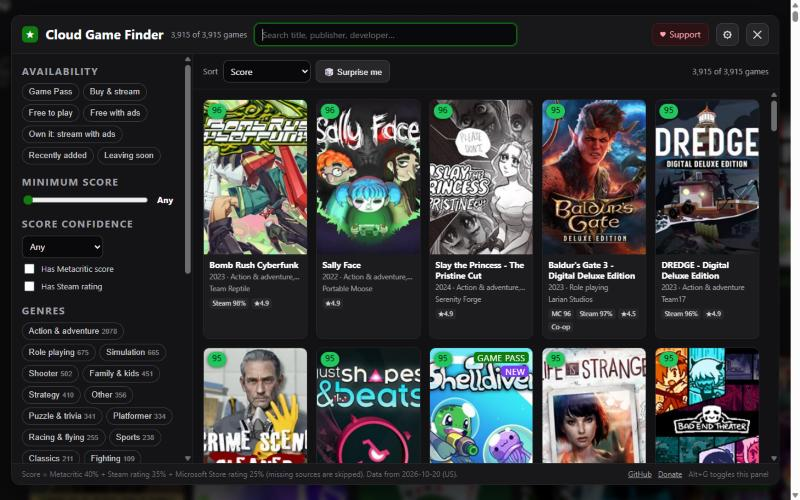
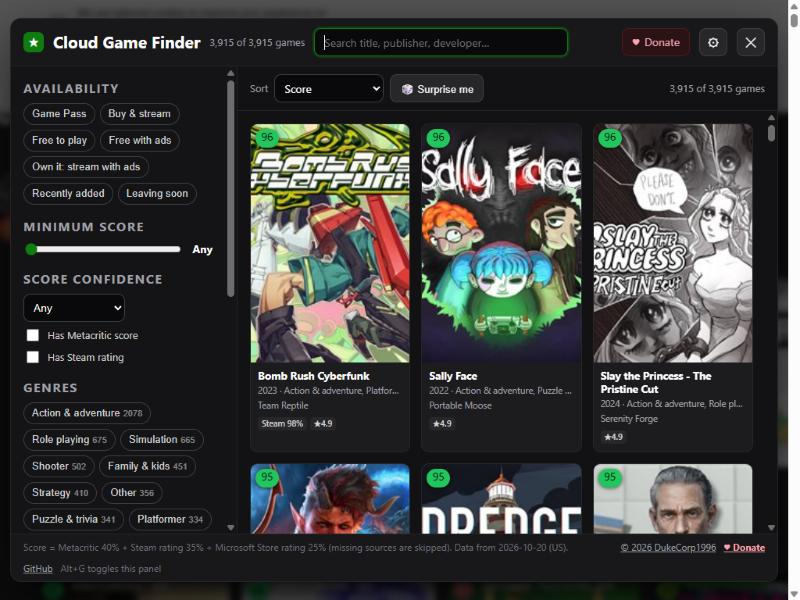
License PolyForm Noncommercial 1.0.0, DukeCorp1996 branding and donation links (v0.2)
- LICENSE.md: PolyForm Noncommercial 1.0.0 with the DukeCorp1996 Required
  Notice, same as PaTorrent; commercial use needs separate permission
- Userscript header: @author/@copyright/@license DukeCorp1996 and the
  Required Notice; package.json author, license, funding
- README: DukeCorp1996 tagline, Donate and License sections, trademark
  disclaimer
- Finder: '♥ Donate' header button, '© 2026 DukeCorp1996' + Donate footer
- Version bump to 0.2 so installed copies update

diff --git a/dist/xbox-cloud-scores.user.js b/dist/xbox-cloud-scores.user.js
@@ -1,9 +1,11 @@
 // ==UserScript==
 // @name         Xbox Cloud Gaming Scores & Finder
 // @namespace    https://github.com/Balls0fSteel/Useful-Xbox-Cloud-Online-JS
-// @version      0.1.20261020.2100
+// @version      0.2.20261020.2100
 // @description  Rating scores, genres and a filterable game finder for Xbox Cloud Gaming (xbox.com/play). Find the good games fast.
-// @author       Balls0fSteel
+// @author       DukeCorp1996 (https://dukecorp1996.x35.in/)
+// @copyright    2026, DukeCorp1996 (https://dukecorp1996.x35.in/)
+// @license      PolyForm-Noncommercial-1.0.0; https://polyformproject.org/licenses/noncommercial/1.0.0
 // @homepageURL  https://github.com/Balls0fSteel/Useful-Xbox-Cloud-Online-JS
 // @supportURL   https://github.com/Balls0fSteel/Useful-Xbox-Cloud-Online-JS/issues
 // @updateURL    https://raw.githubusercontent.com/Balls0fSteel/Useful-Xbox-Cloud-Online-JS/main/dist/xbox-cloud-scores.meta.js
@@ -21,9 +23,16 @@
 // @connect      catalog.gamepass.com
 // ==/UserScript==
 //
+// Required Notice: Copyright 2026 DukeCorp1996 (https://dukecorp1996.x35.in/)
+//
+// Free for noncommercial use under the PolyForm Noncommercial License 1.0.0
+// (https://polyformproject.org/licenses/noncommercial/1.0.0, full text in LICENSE.md in the repo).
+// Commercial use needs separate permission from DukeCorp1996.
+//
+// Like it? Please donate: https://dukecorp1996.x35.in/
+//
 // Data snapshot: 3915 games, built 2026-10-20T21:00:39.167Z for market US (store ratings 3760, Steam 2986, Metacritic 949)
 // Source, data pipeline and issues: https://github.com/Balls0fSteel/Useful-Xbox-Cloud-Online-JS
-// Like it? Support the author: https://dukecorp1996.x35.in/
 
 (function () {
   "use strict";
@@ -620,6 +629,7 @@ input[type=range]{flex:1;accent-color:#107c10}
 .t3{background:#eab308;color:#1a1300}.t4{background:#84cc16;color:#0d1402}.t5{background:#22c55e;color:#03140a}
 .ft{display:flex;align-items:center;gap:10px;padding:8px 16px;border-top:1px solid #27272a;background:#18181b;color:#71717a;font-size:12px;flex-wrap:wrap}
 .ft a{color:#a1a1aa}
+.ft a.don{color:#fda4af;font-weight:700}
 .ft .sp{flex:1}
 .settings{padding:4px 0}
 .filtbtn{display:none}
@@ -692,7 +702,7 @@ const panel = {
    <button class="btn filtbtn" data-act="filters">Filters</button>
    <input class="q" type="search" placeholder="Search title, publisher, developer…" value="${esc(s.q)}" aria-label="Search games">
    <span class="sp"></span>
-   <a class="btn heart" href="${DONATE_URL}" target="_blank" rel="noopener" title="Support the author">♥<span class="lbl"> Support</span></a>
+   <a class="btn heart" href="${DONATE_URL}" target="_blank" rel="noopener" title="Donate to DukeCorp1996, the author of this script">♥<span class="lbl"> Donate</span></a>
    <button class="btn icon" data-act="settings" title="Settings" aria-label="Settings">⚙</button>
    <button class="btn icon" data-act="close" title="Close (Esc)" aria-label="Close">✕</button>
   </div>
@@ -729,8 +739,9 @@ const panel = {
   <div class="ft">
    <span class="note">Score = Metacritic 40% + Steam rating 35% + Microsoft Store rating 25% (missing sources are skipped). Data from ${esc(RAW.builtAt.slice(0, 10))} (${esc(RAW.market)}).</span>
    <span class="sp"></span>
+   <a href="${DONATE_URL}" target="_blank" rel="noopener">© 2026 DukeCorp1996</a>
+   <a class="don" href="${DONATE_URL}" target="_blank" rel="noopener">♥ Donate</a>
    <a href="${REPO_URL}" target="_blank" rel="noopener">GitHub</a>
-   <a href="${DONATE_URL}" target="_blank" rel="noopener">Donate</a>
    <span>Alt+G toggles this panel</span>
   </div>
  </div>

diff --git a/src/userscript.js b/src/userscript.js
@@ -526,6 +526,7 @@ input[type=range]{flex:1;accent-color:#107c10}
 .t3{background:#eab308;color:#1a1300}.t4{background:#84cc16;color:#0d1402}.t5{background:#22c55e;color:#03140a}
 .ft{display:flex;align-items:center;gap:10px;padding:8px 16px;border-top:1px solid #27272a;background:#18181b;color:#71717a;font-size:12px;flex-wrap:wrap}
 .ft a{color:#a1a1aa}
+.ft a.don{color:#fda4af;font-weight:700}
 .ft .sp{flex:1}
 .settings{padding:4px 0}
 .filtbtn{display:none}
@@ -598,7 +599,7 @@ const panel = {
    <button class="btn filtbtn" data-act="filters">Filters</button>
    <input class="q" type="search" placeholder="Search title, publisher, developer…" value="${esc(s.q)}" aria-label="Search games">
    <span class="sp"></span>
-   <a class="btn heart" href="${DONATE_URL}" target="_blank" rel="noopener" title="Support the author">♥<span class="lbl"> Support</span></a>
+   <a class="btn heart" href="${DONATE_URL}" target="_blank" rel="noopener" title="Donate to DukeCorp1996, the author of this script">♥<span class="lbl"> Donate</span></a>
    <button class="btn icon" data-act="settings" title="Settings" aria-label="Settings">⚙</button>
    <button class="btn icon" data-act="close" title="Close (Esc)" aria-label="Close">✕</button>
   </div>
@@ -635,8 +636,9 @@ const panel = {
   <div class="ft">
    <span class="note">Score = Metacritic 40% + Steam rating 35% + Microsoft Store rating 25% (missing sources are skipped). Data from ${esc(RAW.builtAt.slice(0, 10))} (${esc(RAW.market)}).</span>
    <span class="sp"></span>
+   <a href="${DONATE_URL}" target="_blank" rel="noopener">© 2026 DukeCorp1996</a>
+   <a class="don" href="${DONATE_URL}" target="_blank" rel="noopener">♥ Donate</a>
    <a href="${REPO_URL}" target="_blank" rel="noopener">GitHub</a>
-   <a href="${DONATE_URL}" target="_blank" rel="noopener">Donate</a>
    <span>Alt+G toggles this panel</span>
   </div>
  </div>

diff --git a/src/header.js b/src/header.js
@@ -3,7 +3,9 @@
 // @namespace    https://github.com/Balls0fSteel/Useful-Xbox-Cloud-Online-JS
 // @version      {{VERSION}}
 // @description  Rating scores, genres and a filterable game finder for Xbox Cloud Gaming (xbox.com/play). Find the good games fast.
-// @author       Balls0fSteel
+// @author       DukeCorp1996 (https://dukecorp1996.x35.in/)
+// @copyright    2026, DukeCorp1996 (https://dukecorp1996.x35.in/)
+// @license      PolyForm-Noncommercial-1.0.0; https://polyformproject.org/licenses/noncommercial/1.0.0
 // @homepageURL  https://github.com/Balls0fSteel/Useful-Xbox-Cloud-Online-JS
 // @supportURL   https://github.com/Balls0fSteel/Useful-Xbox-Cloud-Online-JS/issues
 // @updateURL    https://raw.githubusercontent.com/Balls0fSteel/Useful-Xbox-Cloud-Online-JS/main/dist/xbox-cloud-scores.meta.js
@@ -21,6 +23,13 @@
 // @connect      catalog.gamepass.com
 // ==/UserScript==
 //
+// Required Notice: Copyright 2026 DukeCorp1996 (https://dukecorp1996.x35.in/)
+//
+// Free for noncommercial use under the PolyForm Noncommercial License 1.0.0
+// (https://polyformproject.org/licenses/noncommercial/1.0.0, full text in LICENSE.md in the repo).
+// Commercial use needs separate permission from DukeCorp1996.
+//
+// Like it? Please donate: https://dukecorp1996.x35.in/
+//
 // Data snapshot: {{DATA_INFO}}
 // Source, data pipeline and issues: https://github.com/Balls0fSteel/Useful-Xbox-Cloud-Online-JS
-// Like it? Support the author: https://dukecorp1996.x35.in/

diff --git a/dist/xbox-cloud-scores.meta.js b/dist/xbox-cloud-scores.meta.js
@@ -1,9 +1,11 @@
 // ==UserScript==
 // @name         Xbox Cloud Gaming Scores & Finder
 // @namespace    https://github.com/Balls0fSteel/Useful-Xbox-Cloud-Online-JS
-// @version      0.1.20261020.2100
+// @version      0.2.20261020.2100
 // @description  Rating scores, genres and a filterable game finder for Xbox Cloud Gaming (xbox.com/play). Find the good games fast.
-// @author       Balls0fSteel
+// @author       DukeCorp1996 (https://dukecorp1996.x35.in/)
+// @copyright    2026, DukeCorp1996 (https://dukecorp1996.x35.in/)
+// @license      PolyForm-Noncommercial-1.0.0; https://polyformproject.org/licenses/noncommercial/1.0.0
 // @homepageURL  https://github.com/Balls0fSteel/Useful-Xbox-Cloud-Online-JS
 // @supportURL   https://github.com/Balls0fSteel/Useful-Xbox-Cloud-Online-JS/issues
 // @updateURL    https://raw.githubusercontent.com/Balls0fSteel/Useful-Xbox-Cloud-Online-JS/main/dist/xbox-cloud-scores.meta.js

diff --git a/LICENSE.md b/LICENSE.md
@@ -1,0 +1,75 @@
+Required Notice: Copyright 2026 DukeCorp1996 (https://dukecorp1996.x35.in/)
+
+# PolyForm Noncommercial License 1.0.0
+
+<https://polyformproject.org/licenses/noncommercial/1.0.0>
+
+## Acceptance
+
+In order to get any license under these terms, you must agree to them as both strict obligations and conditions to all your licenses.
+
+## Copyright License
+
+The licensor grants you a copyright license for the software to do everything you might do with the software that would otherwise infringe the licensor's copyright in it for any permitted purpose.  However, you may only distribute the software according to [Distribution License](#distribution-license) and make changes or new works based on the software according to [Changes and New Works License](#changes-and-new-works-license).
+
+## Distribution License
+
+The licensor grants you an additional copyright license to distribute copies of the software.  Your license to distribute covers distributing the software with changes and new works permitted by [Changes and New Works License](#changes-and-new-works-license).
+
+## Notices
+
+You must ensure that anyone who gets a copy of any part of the software from you also gets a copy of these terms or the URL for them above, as well as copies of any plain-text lines beginning with `Required Notice:` that the licensor provided with the software.  For example:
+
+> Required Notice: Copyright Yoyodyne, Inc. (http://example.com)
+
+## Changes and New Works License
+
+The licensor grants you an additional copyright license to make changes and new works based on the software for any permitted purpose.
+
+## Patent License
+
+The licensor grants you a patent license for the software that covers patent claims the licensor can license, or becomes able to license, that you would infringe by using the software.
+
+## Noncommercial Purposes
+
+Any noncommercial purpose is a permitted purpose.
+
+## Personal Uses
+
+Personal use for research, experiment, and testing for the benefit of public knowledge, personal study, private entertainment, hobby projects, amateur pursuits, or religious observance, without any anticipated commercial application, is use for a permitted purpose.
+
+## Noncommercial Organizations
+
+Use by any charitable organization, educational institution, public research organization, public safety or health organization, environmental protection organization, or government institution is use for a permitted purpose regardless of the source of funding or obligations resulting from the funding.
+
+## Fair Use
+
+You may have "fair use" rights for the software under the law. These terms do not limit them.
+
+## No Other Rights
+
+These terms do not allow you to sublicense or transfer any of your licenses to anyone else, or prevent the licensor from granting licenses to anyone else.  These terms do not imply any other licenses.
+
+## Patent Defense
+
+If you make any written claim that the software infringes or contributes to infringement of any patent, your patent license for the software granted under these terms ends immediately. If your company makes such a claim, your patent license ends immediately for work on behalf of your company.
+
+## Violations
+
+The first time you are notified in writing that you have violated any of these terms, or done anything with the software not covered by your licenses, your licenses can nonetheless continue if you come into full compliance with these terms, and take practical steps to correct past violations, within 32 days of receiving notice.  Otherwise, all your licenses end immediately.
+
+## No Liability
+
+***As far as the law allows, the software comes as is, without any warranty or condition, and the licensor will not be liable to you for any damages arising out of these terms or the use or nature of the software, under any kind of legal claim.***
+
+## Definitions
+
+The **licensor** is the individual or entity offering these terms, and the **software** is the software the licensor makes available under these terms.
+
+**You** refers to the individual or entity agreeing to these terms.
+
+**Your company** is any legal entity, sole proprietorship, or other kind of organization that you work for, plus all organizations that have control over, are under the control of, or are under common control with that organization.  **Control** means ownership of substantially all the assets of an entity, or the power to direct its management and policies by vote, contract, or otherwise.  Control can be direct or indirect.
+
+**Your licenses** are all the licenses granted to you for the software under these terms.
+
+**Use** means anything you do with the software requiring one of your licenses.

diff --git a/README.md b/README.md
@@ -1,10 +1,10 @@
 # Useful Xbox Cloud Online JS
 
-**Find the good games on Xbox Cloud Gaming, fast.**
+**Find the good games on Xbox Cloud Gaming, fast.** A [DukeCorp1996](https://dukecorp1996.x35.in/) project.
 
 A Tampermonkey userscript for [xbox.com/play](https://www.xbox.com/play) that puts a rating score and genre on every game tile and adds a **Game Finder** panel. Use it to filter the whole cloud catalog (about 3,900 games) by score, genre, Game Pass, free-to-play, touch support, co-op and more.
 
-> ❤ **Like it? Support the author:** **[dukecorp1996.x35.in](https://dukecorp1996.x35.in/)**. Donations keep the data fresh and the script maintained.
+> ❤ **Free for personal use. If it helps you, please donate:** **[dukecorp1996.x35.in](https://dukecorp1996.x35.in/)**. Donations keep the scores fresh and the script maintained.
 
 | Score badges + genres on tiles | Game Finder |
 | --- | --- |
@@ -124,14 +124,20 @@ Steam lookups are cached in `data/cache/steam.json`, so later runs only look up 
 
 See [PLAN.md](PLAN.md). Highlights: automatic weekly data refresh via GitHub Actions, more critic sources (OpenCritic / IGDB), a "hide games I've played" list, and an optional browser extension build from the same bundle.
 
-## Support the project
+## Donate
 
-If this saved you from scrolling through 3,900 tiles, consider supporting the author:
+This project is made and maintained by DukeCorp1996 in spare time. Every data refresh means a fresh pass over the catalog, Steam matching and calibration. If the script saved you from scrolling through 3,900 tiles, please consider a donation:
 
 ### 👉 [dukecorp1996.x35.in](https://dukecorp1996.x35.in/)
 
-Bug reports and ideas are welcome in [Issues](https://github.com/Balls0fSteel/Useful-Xbox-Cloud-Online-JS/issues).
+The Game Finder has a **♥ Support** button and a footer **Donate** link that go to the same page. Bug reports and ideas are welcome in [Issues](https://github.com/Balls0fSteel/Useful-Xbox-Cloud-Online-JS/issues).
+
+## License
+
+Copyright 2026 DukeCorp1996 (<https://dukecorp1996.x35.in/>).
+
+Useful Xbox Cloud Online JS is free for **noncommercial** use under the [PolyForm Noncommercial License 1.0.0](LICENSE.md): personal use, study, hobby projects, and use by charities, schools, research and public institutions. You may share and modify it on the same terms, as long as the `Required Notice` line from [LICENSE.md](LICENSE.md) stays with every copy (it is also in the userscript header). Commercial use needs separate permission from DukeCorp1996. This makes the project source-available rather than open source in the OSI sense.
 
 ## Disclaimer
 
-Not affiliated with, endorsed by, or sponsored by Microsoft, Xbox, Valve/Steam or Metacritic. All trademarks belong to their owners. Scores are computed from public user and critic ratings and are only a guide; your taste may differ.
+Not affiliated with, endorsed by, or sponsored by Microsoft, Xbox, Valve/Steam or Metacritic. Xbox, Xbox Cloud Gaming, Game Pass, Steam and Metacritic are trademarks of their owners and are used only to identify those products and services. Scores are computed from public user and critic ratings and are only a guide; your taste may differ.

diff --git a/CHANGELOG.md b/CHANGELOG.md
@@ -1,5 +1,17 @@
 # CHANGELOG
 
+## 2026-10-20_233432_1792532072 — v0.2 license, branding, donations
+
+### Added
+- `LICENSE.md`: PolyForm Noncommercial License 1.0.0 with `Required Notice: Copyright 2026 DukeCorp1996 (https://dukecorp1996.x35.in/)`, the same license file as PaTorrent ("no commercial use"; commercial use needs separate permission).
+- DukeCorp1996 branding: userscript `@author`, `@copyright` and `@license` (shown on Tampermonkey's install page) plus the Required Notice line in the script header; package.json `author`, `license`, `funding`.
+- README: "A DukeCorp1996 project" tagline, a License section in the PaTorrent style, a Donate section, and a trademark line for Xbox / Game Pass / Steam / Metacritic in the disclaimer.
+- Finder: header button is now "♥ Donate"; the footer shows "© 2026 DukeCorp1996" and a highlighted "♥ Donate" link, both pointing to https://dukecorp1996.x35.in/.
+
+### Changed
+- Version 0.1 → 0.2, so existing installs update even though the data snapshot is unchanged (the userscript version is `<major>.<minor>.<data date>.<data time>`).
+- `docs/finder.jpg` re-shot to show the Donate button and footer.
+
 ## 2026-10-20_233222_1792531942 — published
 
 - Pushed `main` to https://github.com/Balls0fSteel/Useful-Xbox-Cloud-Online-JS. Verified the raw `dist/xbox-cloud-scores.user.js` (install) and `.meta.js` (update check) URLs return HTTP 200.

diff --git a/PLAN.md b/PLAN.md
@@ -1,9 +1,10 @@
 # PLAN
 
-Last updated: 2026-10-20_233222_1792531942
+Last updated: 2026-10-20_233432_1792532072
 
 ## Current state
 
+- License: PolyForm Noncommercial 1.0.0, `Required Notice: Copyright 2026 DukeCorp1996 (https://dukecorp1996.x35.in/)`, same as PaTorrent. Commercial use needs DukeCorp1996's permission.
 - Published: https://github.com/Balls0fSteel/Useful-Xbox-Cloud-Online-JS (`main`); raw install/update URLs verified (HTTP 200).
 - v0.1: Tampermonkey userscript with score badges, genre labels, game-page score card, Game Finder panel, optional dimming of low scorers, and live store-rating lookups for games newer than the bundle.
 - Data pipeline (`scripts/fetch-data.mjs`) pulls the full cloud catalog (~3,900 games, US market), Microsoft Store ratings, Steam matches + Metacritic, and batched Steam rating summaries (% positive + count only; no review texts by design).
@@ -33,7 +34,6 @@ Last updated: 2026-10-20_233222_1792531942
 
 ## Open questions
 
-- License for the repo (MIT? something else?). No license file is included yet, which means all rights reserved by default.
 - Should the bundled data stay inline in the userscript (current: one-file install, ~0.9 MB), or move to an `@resource` JSON so code and data update separately?
 - Which market(s) should the default build target? Currently US / en-US.
 
